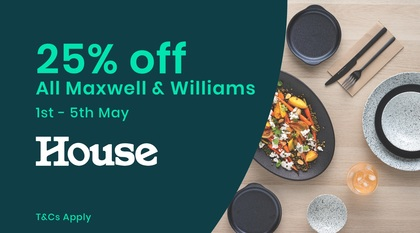
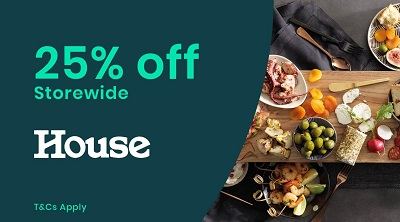
Added new tiles and time-based tiles

diff --git a/src/openmay/js/openmay.js b/src/openmay/js/openmay.js
@@ -4,7 +4,10 @@
 
 /**
  * Arrays for the items on each of the promo category. Each array is a 2 dimensional array.
- * For each sub-array, the first item (array [n][0]) is a link and the second (array [n][1]) is the path to the image.
+ * For each sub-array: 
+ *  the first item (array [n][0]) is a link
+ *  the second item (array [n][1]) is the path to the image.
+ *  the third item (array [n][2]) is the image's expiry date, for limited time promotion. must be in 'DD MMMM YYYY, GMT+10:00' format. leave null if it's indefinite. 
  * Change these arrays to update the cards, leave the first value as null if the image is a placeholder.
  *
  *  @featured the array containing the featured promotion
@@ -13,74 +16,92 @@
  *  @home  the array containing all promotions in the home category
  */
 const featured = [
-    [null, "/images/JPG/featured/openmay.jpg"],
-    ["http://auto.openpay.com.au/", "/images/JPG/auto/generic.jpg"],
-    ["https://www.edgeclothing.com.au/pages/denim", "/images/JPG/retail/edge.jpg"]
+	[ null, '/images/JPG/featured/openmay.jpg' ],
+	[ 'http://auto.openpay.com.au/', '/images/JPG/auto/generic.jpg' ],
+	[ 'https://www.edgeclothing.com.au/pages/denim', '/images/JPG/retail/edge.jpg' ]
 ];
 const retail = [
-    ['https://silenttheory.com.au/', "/images/JPG/retail/silent theory.jpg"],
-    ['https://allabouteveclothing.com/', "/images/JPG/retail/all about eve.jpg"],
-    ["https://www.edgeclothing.com.au/", "/images/JPG/retail/edge.jpg"],
-    [
-        "https://www.lincraft.com.au/brother-scanncut-sdx1200-machine",
-        "/images/JPG/retail/retail_Lincraft_3.png"
-    ],
-    [
-        "https://www.lincraft.com.au/haberdashery/dress-models/by/size/small_medium",
-        "/images/JPG/retail/retail_Lincraft_4.png"
-    ],
-    [
-        "https://www.openpay.com.au/shop-brand?BrandID=QnJpZ2h0IEV5ZXM=",
-        "/images/JPG/retail/retail_pethouse.png"
-    ],
-    [
-        "https://www.lincraft.com.au/sewing-machines/by/brands/toyota/",
-        "/images/JPG/retail/lincraft.jpg"
-    ],
-    [
-        "https://www.backyardcatenclosures.com.au/",
-        "/images/JPG/retail/backyard kitten palaces.jpg"
-    ],
-    [
-        "https://charlesandlee.com/collections/sets",
-        "/images/JPG/retail/charles and lee.jpg"
-    ],
-    [
-        "https://www.backyardchickencoops.com.au/",
-        "/images/JPG/retail/chicken coops.jpg"
-    ],
-    ["https://timbuk2.com.au/", "/images/JPG/retail/timbuk2.jpg"],
-    ["https://tomsaustralia.com.au/", "/images/JPG/retail/toms.jpg"],
-    [
-        "https://www.greggrantsaddlery.com.au/",
-        "/images/JPG/retail/gregsaddelry.jpg"
-    ],
-    [
-        "https://skinnytan.com.au/collections/4-for-40",
-        "/images/JPG/retail/skinny tan.jpg"
-    ],
-    ["http://www.jacnjean.com.au/", "/images/JPG/retail/jacandjean.jpg"]
+	[
+		'https://takingshape.com.au/sale',
+		'/images/JPG/retail/taking-shape-cf.jpg',
+		'23 May 2019 07:00:00 GMT+10:00',
+		'21 May 2019 17:00:00 GMT+10:00'
+	],
+	[
+		'https://takingshape.com.au/sale',
+		'/images/JPG/retail/taking-shape.jpg',
+		null,
+		'21 May 2019 17:00:00 GMT+10:00'
+	],
+	[
+		'https://bebitza.com/',
+		'/images/JPG/retail/bebitza.jpg',
+		'21 May 2019 23:59:00 GMT+10:00',
+		'22 May 2019 23:59:00 GMT+10:00'
+	],
+	[ 'https://unclejackwatches.com', '/images/JPG/retail/uncle-jack.jpg', '22 May 2019 23:59:00 GMT+10:00' ],
+	[ 'https://www.daleandwaters.com.au/', '/images/JPG/retail/dale-waters.jpg', '22 May 2019 23:59:00 GMT+10:00' ],
+	[
+		'https://www.openpay.com.au/shop-brand?BrandID=QnJpZ2h0IEV5ZXM=',
+		'/images/JPG/retail/pethouse.jpg',
+		'24 May 2019 23:59:00 GMT+10:00'
+	],
+	[ 'https://silenttheory.com.au/', '/images/JPG/retail/silent theory.jpg' ],
+	[ 'https://allabouteveclothing.com/', '/images/JPG/retail/all about eve.jpg' ],
+	[ 'https://www.edgeclothing.com.au/', '/images/JPG/retail/edge.jpg' ],
+	[
+		'https://www.lincraft.com.au/brother-scanncut-sdx1200-machine',
+		'/images/JPG/retail/retail_Lincraft_3.png',
+		'19 May 2019, GMT+10:00'
+	],
+	[
+		'https://www.lincraft.com.au/haberdashery/dress-models/by/size/small_medium',
+		'/images/JPG/retail/retail_Lincraft_4.png',
+		'19 May 2019, GMT+10:00'
+	],
+	[
+		'https://www.lincraft.com.au/sewing-machines/by/brands/toyota/',
+		'/images/JPG/retail/lincraft.jpg',
+		'19 May 2019, GMT+10:00'
+	],
+	[ 'https://www.backyardcatenclosures.com.au/', '/images/JPG/retail/backyard kitten palaces.jpg' ],
+	[ 'https://charlesandlee.com/collections/sets', '/images/JPG/retail/charles and lee.jpg' ],
+	[ 'https://www.backyardchickencoops.com.au/', '/images/JPG/retail/chicken coops.jpg' ],
+	[ 'https://timbuk2.com.au/', '/images/JPG/retail/timbuk2.jpg' ],
+	[ 'https://tomsaustralia.com.au/', '/images/JPG/retail/toms.jpg' ],
+	[ 'https://www.greggrantsaddlery.com.au/', '/images/JPG/retail/gregsaddelry.jpg' ],
+	[ 'https://skinnytan.com.au/collections/4-for-40', '/images/JPG/retail/skinny tan.jpg' ],
+	[ 'http://www.jacnjean.com.au/', '/images/JPG/retail/jacandjean.jpg' ]
 ];
 const automotive = [
-    ["http://autobahn.net.au/", "/images/JPG/auto/autobahn.jpg"],
-    ["https://www.ultratune.com.au/", "/images/JPG/auto/ultratune.jpg"],
-    ["http://auto.openpay.com.au/", "/images/JPG/auto/generic.jpg"]
+	[ 'http://autobahn.net.au/', '/images/JPG/auto/autobahn.jpg' ],
+	[ 'https://www.ultratune.com.au/', '/images/JPG/auto/ultratune.jpg' ],
+	[ 'http://auto.openpay.com.au/', '/images/JPG/auto/generic.jpg' ]
 ];
 const home = [
-    [
-        "https://www.lincraft.com.au/home/bedroom/sheets/by/brands/novus/",
-        "/images/JPG/home/home_Lincraft_2.png"
-    ],
-    [
-        "https://www.unitedstonemelbourne.com.au/",
-        "/images/JPG/home/unitedstone.jpg"
-    ],
-    ["https://ihealthsaunas.com.au/", "/images/JPG/home/ihealth.jpg"],
-    ["https://bedsrus.com.au/", "/images/JPG/home/bedsrus.jpg"],
-    ["https://myhouse.com.au/", "/images/JPG/home/myhouse.jpg"],
-    ["https://omegahomeservices.com.au/", "/images/JPG/home/omega.jpg"]
+	[ 'https://myhouse.com.au/', '/images/JPG/home/myhouse.jpg', '23 May 2019 00:00:00 GMT+10:00' ],
+	[ 'https://www.robinskitchen.com.au/', '/images/JPG/home/robins.jpg', '24 May 2019 23:59:00 GMT+10:00' ],
+	[ 'https://www.house.com.au/', '/images/JPG/home/house.jpg', '24 May 2019 23:59:00 GMT+10:00' ],
+	[ 'https://www.unitedstonemelbourne.com.au/', '/images/JPG/home/unitedstone.jpg' ],
+	[ 'https://ihealthsaunas.com.au/', '/images/JPG/home/ihealth.jpg' ],
+	[ 'https://bedsrus.com.au/', '/images/JPG/home/bedsrus.jpg' ],
+	[ 'https://bedsrus.com.au/', '/images/JPG/home/myhouse.jpg' ],
+	[ 'https://omegahomeservices.com.au/', '/images/JPG/home/omega.jpg' ]
 ];
-
+const monthNames = [
+	'January',
+	'February',
+	'March',
+	'April',
+	'May',
+	'June',
+	'July',
+	'August',
+	'September',
+	'October',
+	'November',
+	'December'
+];
 /**
  * Function to create the carousel images.
  * Iterates through a 2D array and generates:
@@ -95,90 +116,107 @@ const home = [
  * @param {array} array The source array that will be used to generate the div.
  */
 function createCarouselImages(parentElement, array) {
-    let parent = document.getElementById(parentElement);
-    console.log("creating images");
-    array.forEach(element => {
-        let child = document.createElement("div");
-        let img = document.createElement("img");
-        let path = "../../openmay" + element[1];
-        let link = document.createElement("a");
-        if (element[0] !== null) {
-            link.setAttribute("href", element[0]);
-            link.setAttribute("target", "_blank");
-        }
-        img.setAttribute("src", path);
-        img.className = "img-fluid promo-card";
-        link.appendChild(img);
-        child.appendChild(link);
-        parent.appendChild(child);
-    });
-}
+	let parent = document.getElementById(parentElement);
+	console.log('creating images');
+	const currentDate = new Date();
+	array.forEach((element) => {
+		let expiryDate = null;
 
+		if (element[3] !== undefined && element[3] !== null) {
+			startDate = new Date(element[3]);
+		} else {
+			startDate = new Date('01 May 2019 00:00:00 GMT+10:00');
+		}
+
+		let startDate = null;
+
+		if (element[2] !== undefined && element[2] !== null) {
+			expiryDate = new Date(element[2]);
+		} else {
+			expiryDate = new Date('01 June 2019 00:00:00 GMT+10:00');
+		}
+
+		if (currentDate <= expiryDate && currentDate >= startDate) {
+			let child = document.createElement('div');
+			let img = document.createElement('img');
+			let path = '../../openmay' + element[1];
+			let link = document.createElement('a');
+			if (element[0] !== null) {
+				link.setAttribute('href', element[0]);
+				link.setAttribute('target', '_blank');
+			}
+			img.setAttribute('src', path);
+			img.className = 'img-fluid promo-card';
+			link.appendChild(img);
+			child.appendChild(link);
+			parent.appendChild(child);
+		}
+	});
+}
 /**
  * Function to create the images for the front page to keep the featured promotion in sync with the mainpage.
  * Iterates only the first 3 items of the featured array and generates the card.
  */
 function createFrontPagePromo() {
-    let parent = document.getElementById("promotion");
-    let array;
-    if (featured.length > 3) {
-        array = featured.slice(0, 3);
-    } else {
-        array = featured;
-    }
-    array.forEach(element => {
-        let child = document.createElement("div");
-        let img = document.createElement("img");
-        let path = "/openmay" + element[1];
-        let link = document.createElement("a");
-        if (element[0] === null) {
-            link.setAttribute("href", "/openmay");
-        } else {
-            link.setAttribute("href", element[0]);
-        }
-        img.className = "promo-card";
-        img.setAttribute("src", path);
-        link.appendChild(img);
-        child.appendChild(link);
-        parent.appendChild(child);
-    });
+	let parent = document.getElementById('promotion');
+	let array;
+	if (featured.length > 3) {
+		array = featured.slice(0, 3);
+	} else {
+		array = featured;
+	}
+	array.forEach((element) => {
+		let child = document.createElement('div');
+		let img = document.createElement('img');
+		let path = '/openmay' + element[1];
+		let link = document.createElement('a');
+		if (element[0] === null) {
+			link.setAttribute('href', '/openmay');
+		} else {
+			link.setAttribute('href', element[0]);
+		}
+		img.className = 'promo-card';
+		img.setAttribute('src', path);
+		link.appendChild(img);
+		child.appendChild(link);
+		parent.appendChild(child);
+	});
 }
-
 /**
  * Initializes the OpenMay webpage - creates the carousels and kickstarts the slick.js
  */
-
 function initOpenmay() {
-    createCarouselImages("featured", featured);
-    createCarouselImages("retail", retail);
-    createCarouselImages("automotive", automotive);
-    createCarouselImages("home", home);
-    /**
+	createCarouselImages('featured', featured);
+	createCarouselImages('retail', retail);
+	createCarouselImages('automotive', automotive);
+	createCarouselImages('home', home);
+	/**
      * jQuery to initialize the carousel.
      */
-    $(document).ready(function () {
-        $(".multiple-items").slick({
-            lazyLoad: "ondemand",
-            autoplay: true,
-            autoplaySpeed: 5000,
-            slidesToShow: 3,
-            slidesToScroll: 3,
-            dots: true,
-            responsive: [{
-                    breakpoint: 1024,
-                    settings: {
-                        slidesToShow: 2,
-                        slidesToScroll: 1
-                    }
-                },
-                {
-                    breakpoint: 600,
-                    settings: {
-                        slidesToShow: 1,
-                        slidesToScroll: 1
-                    }
-                }
-            ]
-        });
-    });
+	$(document).ready(function() {
+		$('.multiple-items').slick({
+			lazyLoad: 'ondemand',
+			autoplay: true,
+			autoplaySpeed: 5000,
+			slidesToShow: 3,
+			slidesToScroll: 3,
+			dots: true,
+			responsive: [
+				{
+					breakpoint: 1024,
+					settings: {
+						slidesToShow: 2,
+						slidesToScroll: 1
+					}
+				},
+				{
+					breakpoint: 600,
+					settings: {
+						slidesToShow: 1,
+						slidesToScroll: 1
+					}
+				}
+			]
+		});
+	});
 }

diff --git a/src/openmay/index.html b/src/openmay/index.html
@@ -69,13 +69,15 @@
         <div class="container-fluid">
             <div class="top-row row">
                 <div class="col-lg-6 text-div">
-                    <h1>Sweet deals on everything you want and need - all month long!</h1>
-                    <br>
-                    <p>
-                        Need a car service? A new kitchen aid? That winter coat you've had your eye on? 
-                        <br><br>
-                        This May, use Openpay for great offers across our network!
-                    </p>
+                    <div> 
+                        <h1>Sweet deals on everything you want and need - all month long!</h1>
+                        <br>
+                        <p>
+                            Need a car service? A new kitchen aid? That winter coat you've had your eye on? 
+                            <br><br>
+                            This May, use Openpay for great offers across our network!
+                        </p>
+                    </div>
                 </div>
                 <div class="col-lg-6 logo-div text-center">
                     <img class="img-fluid" src="../openmay/images/SVG/Openmay_logo_light-green.svg">
@@ -239,7 +241,7 @@
 <script src="../openmay/js/jquery-3.4.0.min.js"></script>
 <script src="../openmay/js/slick.js"></script>
 <script src="../openmay/js/bootstrap.js"></script>
-<script src="../openmay/js/openmay.js?20190513"></script>
+<script src="../openmay/js/openmay.js?20190521"></script>
 <script>
     initOpenmay();
 </script>

diff --git a/src/index.html b/src/index.html
@@ -330,7 +330,7 @@
 		<script src="https://ajax.googleapis.com/ajax/libs/jquery/3.3.1/jquery.min.js"></script>
 		<script src="scripts/Typer.js"></script>
 		<script src="scripts/instegram.js"></script>
-		<script src="openmay/js/openmay.js?20190513"></script>
+		<script src="openmay/js/openmay.js?20190521"></script>
 		<script src="/ads.js" type="text/javascript"></script>
 		<script type="text/javascript">
 			createFrontPagePromo();
